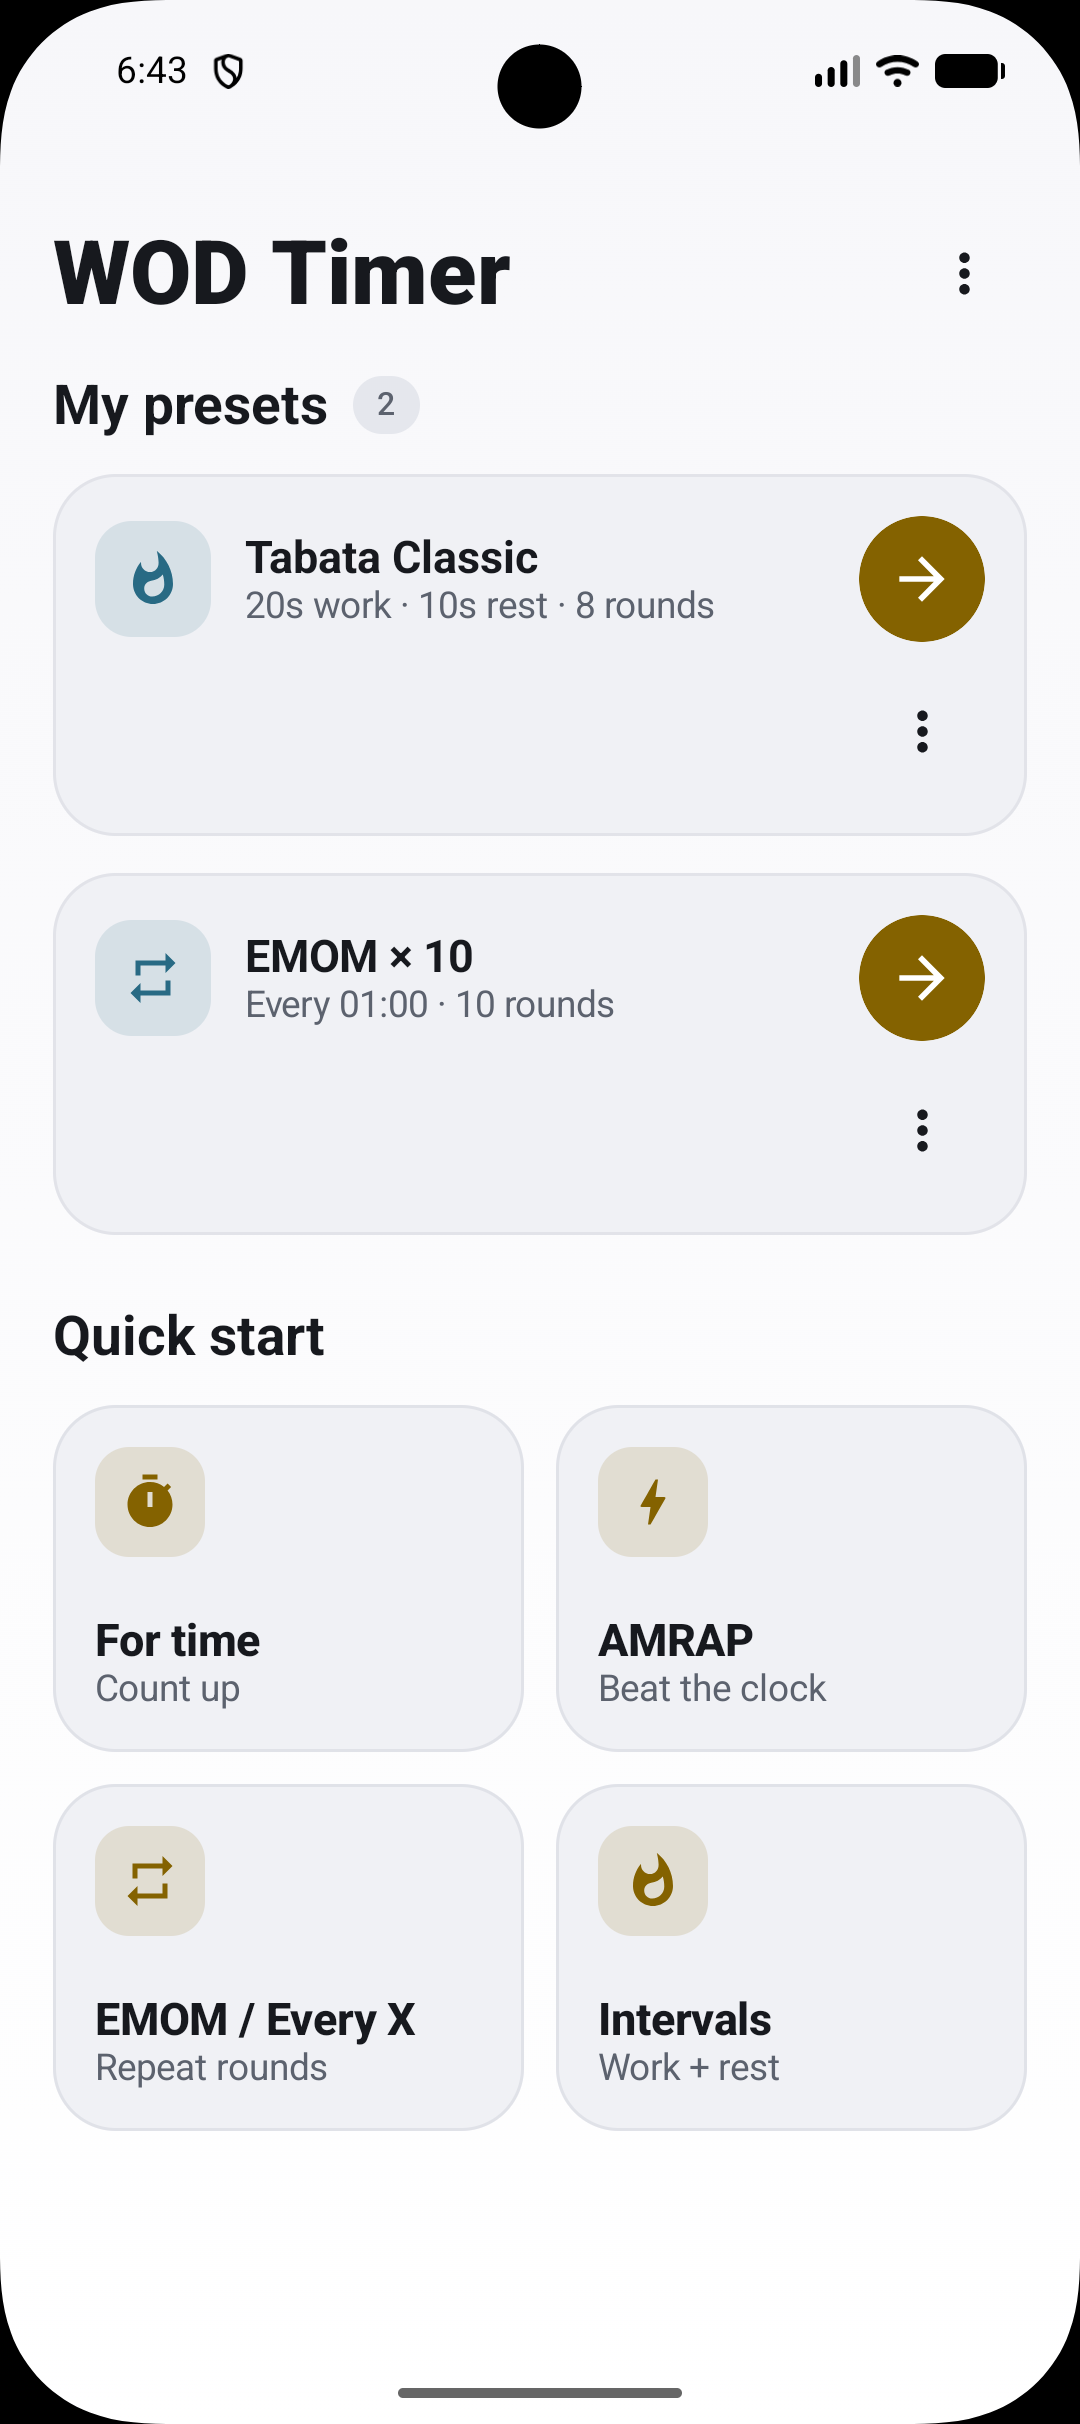
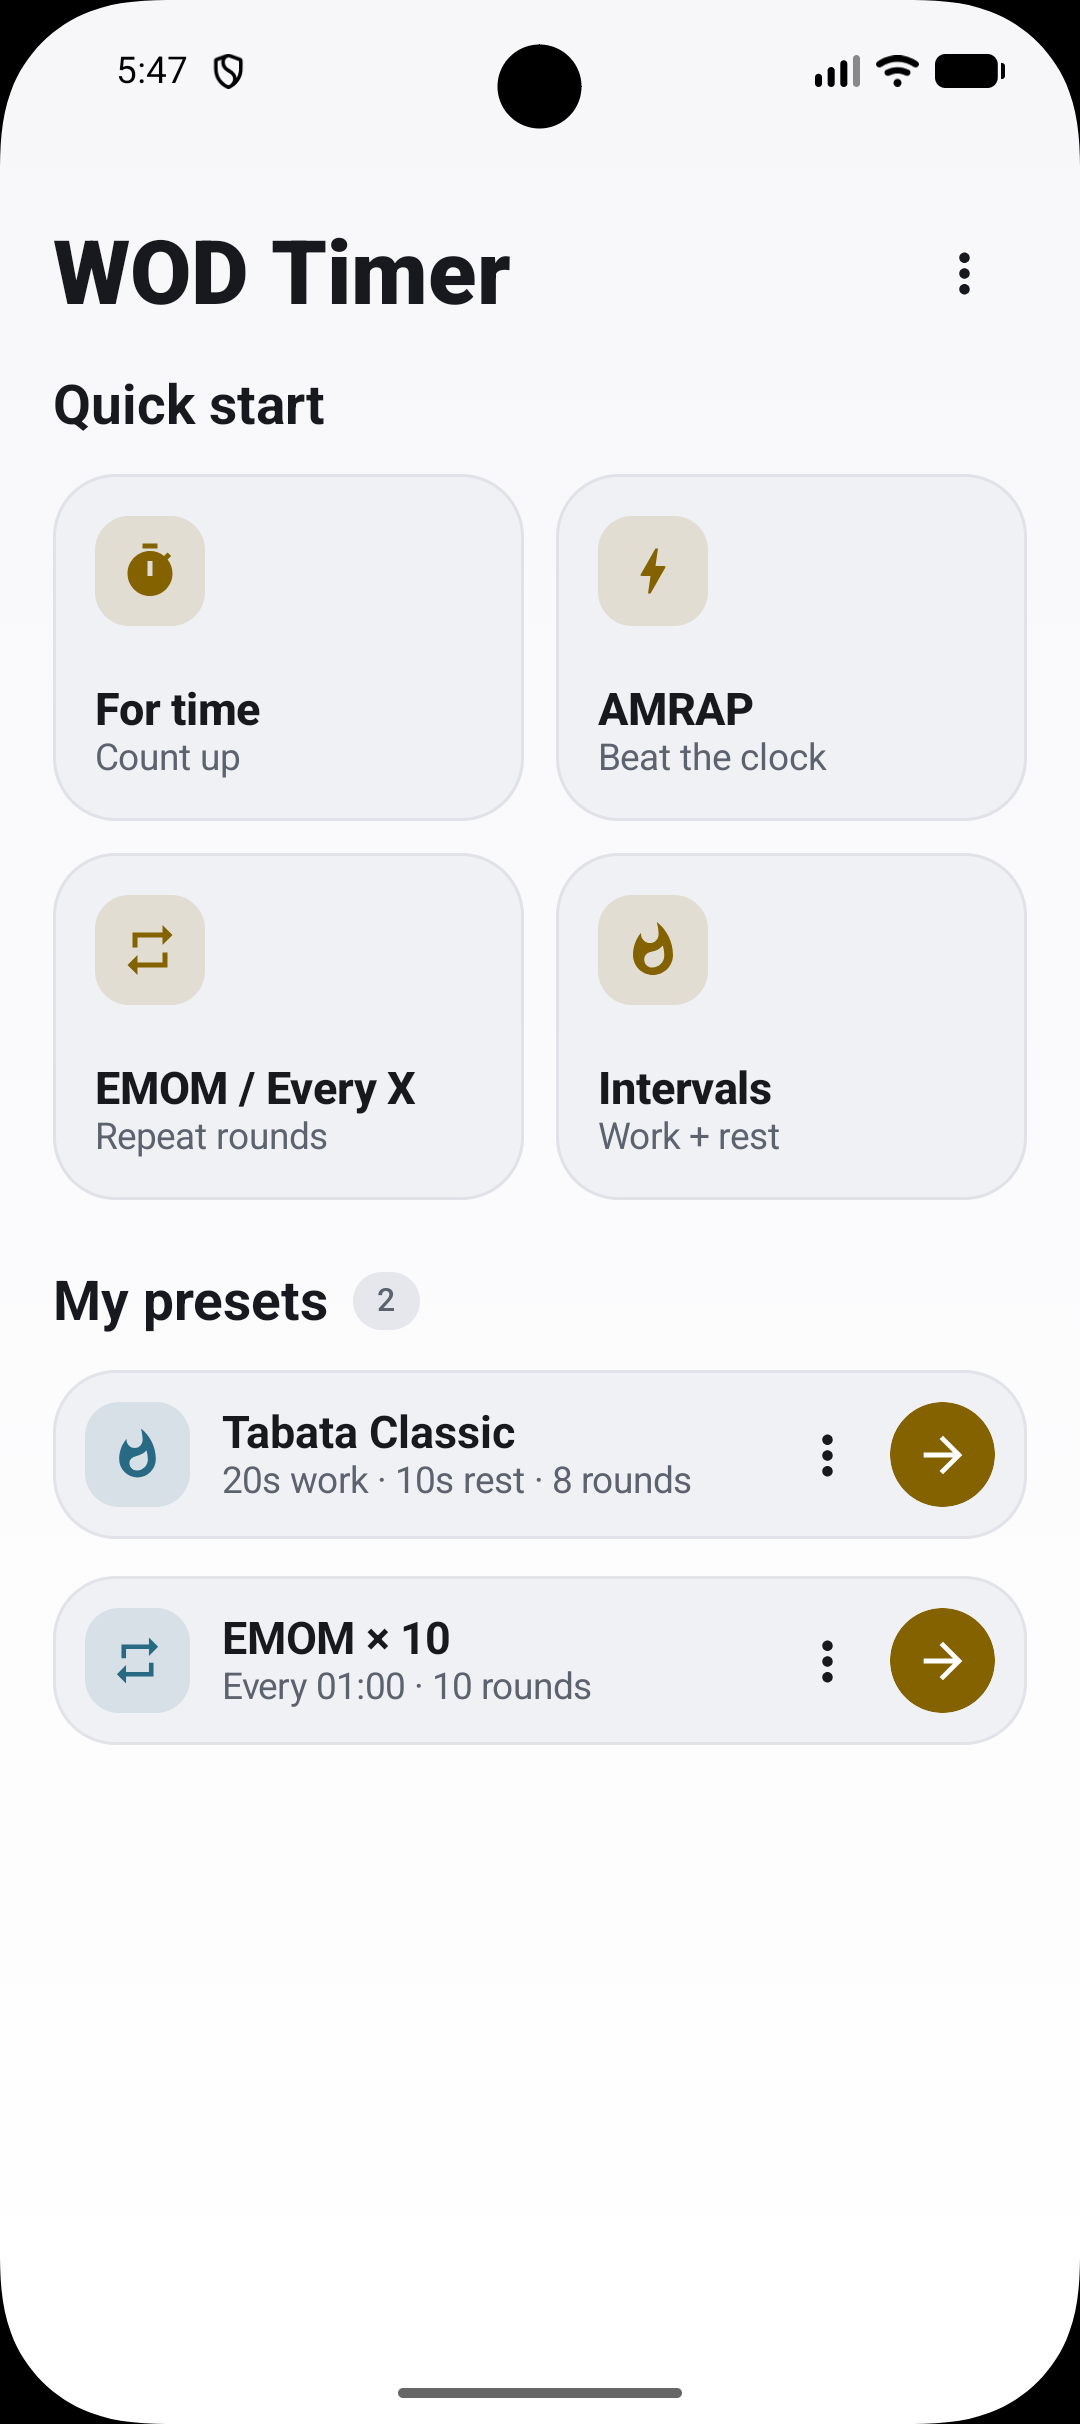
Improve scaling issue

diff --git a/app/src/main/java/dev/xichen/wodtimer/ui/HomeScreen.kt b/app/src/main/java/dev/xichen/wodtimer/ui/HomeScreen.kt
@@ -18,6 +18,7 @@ import androidx.compose.foundation.layout.navigationBarsPadding
 import androidx.compose.foundation.layout.padding
 import androidx.compose.foundation.layout.size
 import androidx.compose.foundation.layout.statusBarsPadding
+import androidx.compose.foundation.layout.width
 import androidx.compose.foundation.lazy.LazyColumn
 import androidx.compose.foundation.lazy.itemsIndexed
 import androidx.compose.foundation.shape.CircleShape
@@ -134,23 +135,7 @@ fun HomeScreen(viewModel: AppViewModel) {
                 }
             }
         }
-        if (presets.isNotEmpty()) item { SectionTitle("My presets", presets.size.toString()) }
-        itemsIndexed(presets, key = { _, preset -> preset.id }) { index, preset ->
-            PresetCard(
-                preset = preset,
-                canMoveUp = index > 0,
-                canMoveDown = index < presets.lastIndex,
-                onLaunch = { viewModel.launch(preset) },
-                onEdit = { viewModel.edit(preset) },
-                onDuplicate = { viewModel.duplicate(preset) },
-                onDelete = { pendingDelete = preset },
-                onMove = { viewModel.move(preset, it) },
-            )
-        }
-        item {
-            Spacer(Modifier.height(if (presets.isEmpty()) 2.dp else 12.dp))
-            SectionTitle("Quick start")
-        }
+        item { SectionTitle("Quick start") }
         item {
             Column(verticalArrangement = Arrangement.spacedBy(12.dp)) {
                 Row(horizontalArrangement = Arrangement.spacedBy(12.dp)) {
@@ -170,6 +155,24 @@ fun HomeScreen(viewModel: AppViewModel) {
                     }
                 }
             }
+        }
+        if (presets.isNotEmpty()) {
+            item {
+                Spacer(Modifier.height(12.dp))
+                SectionTitle("My presets", presets.size.toString())
+            }
+        }
+        itemsIndexed(presets, key = { _, preset -> preset.id }) { index, preset ->
+            PresetCard(
+                preset = preset,
+                canMoveUp = index > 0,
+                canMoveDown = index < presets.lastIndex,
+                onLaunch = { viewModel.launch(preset) },
+                onEdit = { viewModel.edit(preset) },
+                onDuplicate = { viewModel.duplicate(preset) },
+                onDelete = { pendingDelete = preset },
+                onMove = { viewModel.move(preset, it) },
+            )
         }
         }
         SnackbarHost(
@@ -250,66 +253,58 @@ private fun PresetCard(
         border = BorderStroke(1.dp, MaterialTheme.colorScheme.outlineVariant.copy(alpha = .5f)),
         colors = CardDefaults.cardColors(containerColor = MaterialTheme.colorScheme.surfaceContainer),
     ) {
-        Column(Modifier.fillMaxWidth().padding(16.dp)) {
-            Row(verticalAlignment = Alignment.CenterVertically) {
-                Surface(modifier = Modifier.size(44.dp), shape = RoundedCornerShape(14.dp), color = MaterialTheme.colorScheme.secondary.copy(alpha = .13f)) {
-                    Box(contentAlignment = Alignment.Center) {
-                        Icon(preset.mode.icon(), null, Modifier.size(23.dp), tint = MaterialTheme.colorScheme.secondary)
-                    }
-                }
-                Column(Modifier.weight(1f).padding(horizontal = 13.dp)) {
-                    Text(preset.name, fontWeight = FontWeight.Bold, style = MaterialTheme.typography.titleMedium)
-                    Text(preset.summary(), color = MaterialTheme.colorScheme.onSurfaceVariant, style = MaterialTheme.typography.bodyMedium)
-                }
-                Surface(
-                    modifier = Modifier.size(48.dp).clip(CircleShape).clickable(onClick = onLaunch),
-                    shape = CircleShape,
-                    color = MaterialTheme.colorScheme.primary,
-                ) {
-                    Box(contentAlignment = Alignment.Center) {
-                        Icon(Icons.AutoMirrored.Filled.ArrowForward, "Open ${preset.name}", Modifier.size(26.dp), tint = MaterialTheme.colorScheme.onPrimary)
-                    }
+        Row(Modifier.fillMaxWidth().padding(12.dp), verticalAlignment = Alignment.CenterVertically) {
+            Surface(modifier = Modifier.size(40.dp), shape = RoundedCornerShape(13.dp), color = MaterialTheme.colorScheme.secondary.copy(alpha = .13f)) {
+                Box(contentAlignment = Alignment.Center) {
+                    Icon(preset.mode.icon(), null, Modifier.size(21.dp), tint = MaterialTheme.colorScheme.secondary)
                 }
             }
-            Row(
-                Modifier.fillMaxWidth().padding(top = 10.dp),
-                verticalAlignment = Alignment.CenterVertically,
-                horizontalArrangement = Arrangement.End,
+            Column(Modifier.weight(1f).padding(horizontal = 12.dp)) {
+                Text(preset.name, fontWeight = FontWeight.Bold, style = MaterialTheme.typography.titleMedium)
+                Text(preset.summary(), color = MaterialTheme.colorScheme.onSurfaceVariant, style = MaterialTheme.typography.bodyMedium)
+            }
+            Box {
+                IconButton(onClick = { menuOpen = true }, modifier = Modifier.size(36.dp)) {
+                    Icon(Icons.Default.MoreVert, "More preset actions")
+                }
+                DropdownMenu(expanded = menuOpen, onDismissRequest = { menuOpen = false }) {
+                    DropdownMenuItem(
+                        text = { Text("Edit") },
+                        leadingIcon = { Icon(Icons.Default.Edit, null) },
+                        onClick = { menuOpen = false; onEdit() },
+                    )
+                    DropdownMenuItem(
+                        text = { Text("Move up") },
+                        leadingIcon = { Icon(Icons.Default.KeyboardArrowUp, null) },
+                        enabled = canMoveUp,
+                        onClick = { menuOpen = false; onMove(-1) },
+                    )
+                    DropdownMenuItem(
+                        text = { Text("Move down") },
+                        leadingIcon = { Icon(Icons.Default.KeyboardArrowDown, null) },
+                        enabled = canMoveDown,
+                        onClick = { menuOpen = false; onMove(1) },
+                    )
+                    DropdownMenuItem(
+                        text = { Text("Duplicate") },
+                        leadingIcon = { Icon(Icons.Default.ContentCopy, null) },
+                        onClick = { menuOpen = false; onDuplicate() },
+                    )
+                    DropdownMenuItem(
+                        text = { Text("Delete") },
+                        leadingIcon = { Icon(Icons.Default.Delete, null) },
+                        onClick = { menuOpen = false; onDelete() },
+                    )
+                }
+            }
+            Spacer(Modifier.width(6.dp))
+            Surface(
+                modifier = Modifier.size(40.dp).clip(CircleShape).clickable(onClick = onLaunch),
+                shape = CircleShape,
+                color = MaterialTheme.colorScheme.primary,
             ) {
-                Spacer(Modifier.weight(1f))
-                Box {
-                    IconButton(onClick = { menuOpen = true }, modifier = Modifier.size(48.dp)) {
-                        Icon(Icons.Default.MoreVert, "More preset actions")
-                    }
-                    DropdownMenu(expanded = menuOpen, onDismissRequest = { menuOpen = false }) {
-                        DropdownMenuItem(
-                            text = { Text("Edit") },
-                            leadingIcon = { Icon(Icons.Default.Edit, null) },
-                            onClick = { menuOpen = false; onEdit() },
-                        )
-                        DropdownMenuItem(
-                            text = { Text("Move up") },
-                            leadingIcon = { Icon(Icons.Default.KeyboardArrowUp, null) },
-                            enabled = canMoveUp,
-                            onClick = { menuOpen = false; onMove(-1) },
-                        )
-                        DropdownMenuItem(
-                            text = { Text("Move down") },
-                            leadingIcon = { Icon(Icons.Default.KeyboardArrowDown, null) },
-                            enabled = canMoveDown,
-                            onClick = { menuOpen = false; onMove(1) },
-                        )
-                        DropdownMenuItem(
-                            text = { Text("Duplicate") },
-                            leadingIcon = { Icon(Icons.Default.ContentCopy, null) },
-                            onClick = { menuOpen = false; onDuplicate() },
-                        )
-                        DropdownMenuItem(
-                            text = { Text("Delete") },
-                            leadingIcon = { Icon(Icons.Default.Delete, null) },
-                            onClick = { menuOpen = false; onDelete() },
-                        )
-                    }
+                Box(contentAlignment = Alignment.Center) {
+                    Icon(Icons.AutoMirrored.Filled.ArrowForward, "Open ${preset.name}", Modifier.size(22.dp), tint = MaterialTheme.colorScheme.onPrimary)
                 }
             }
         }
